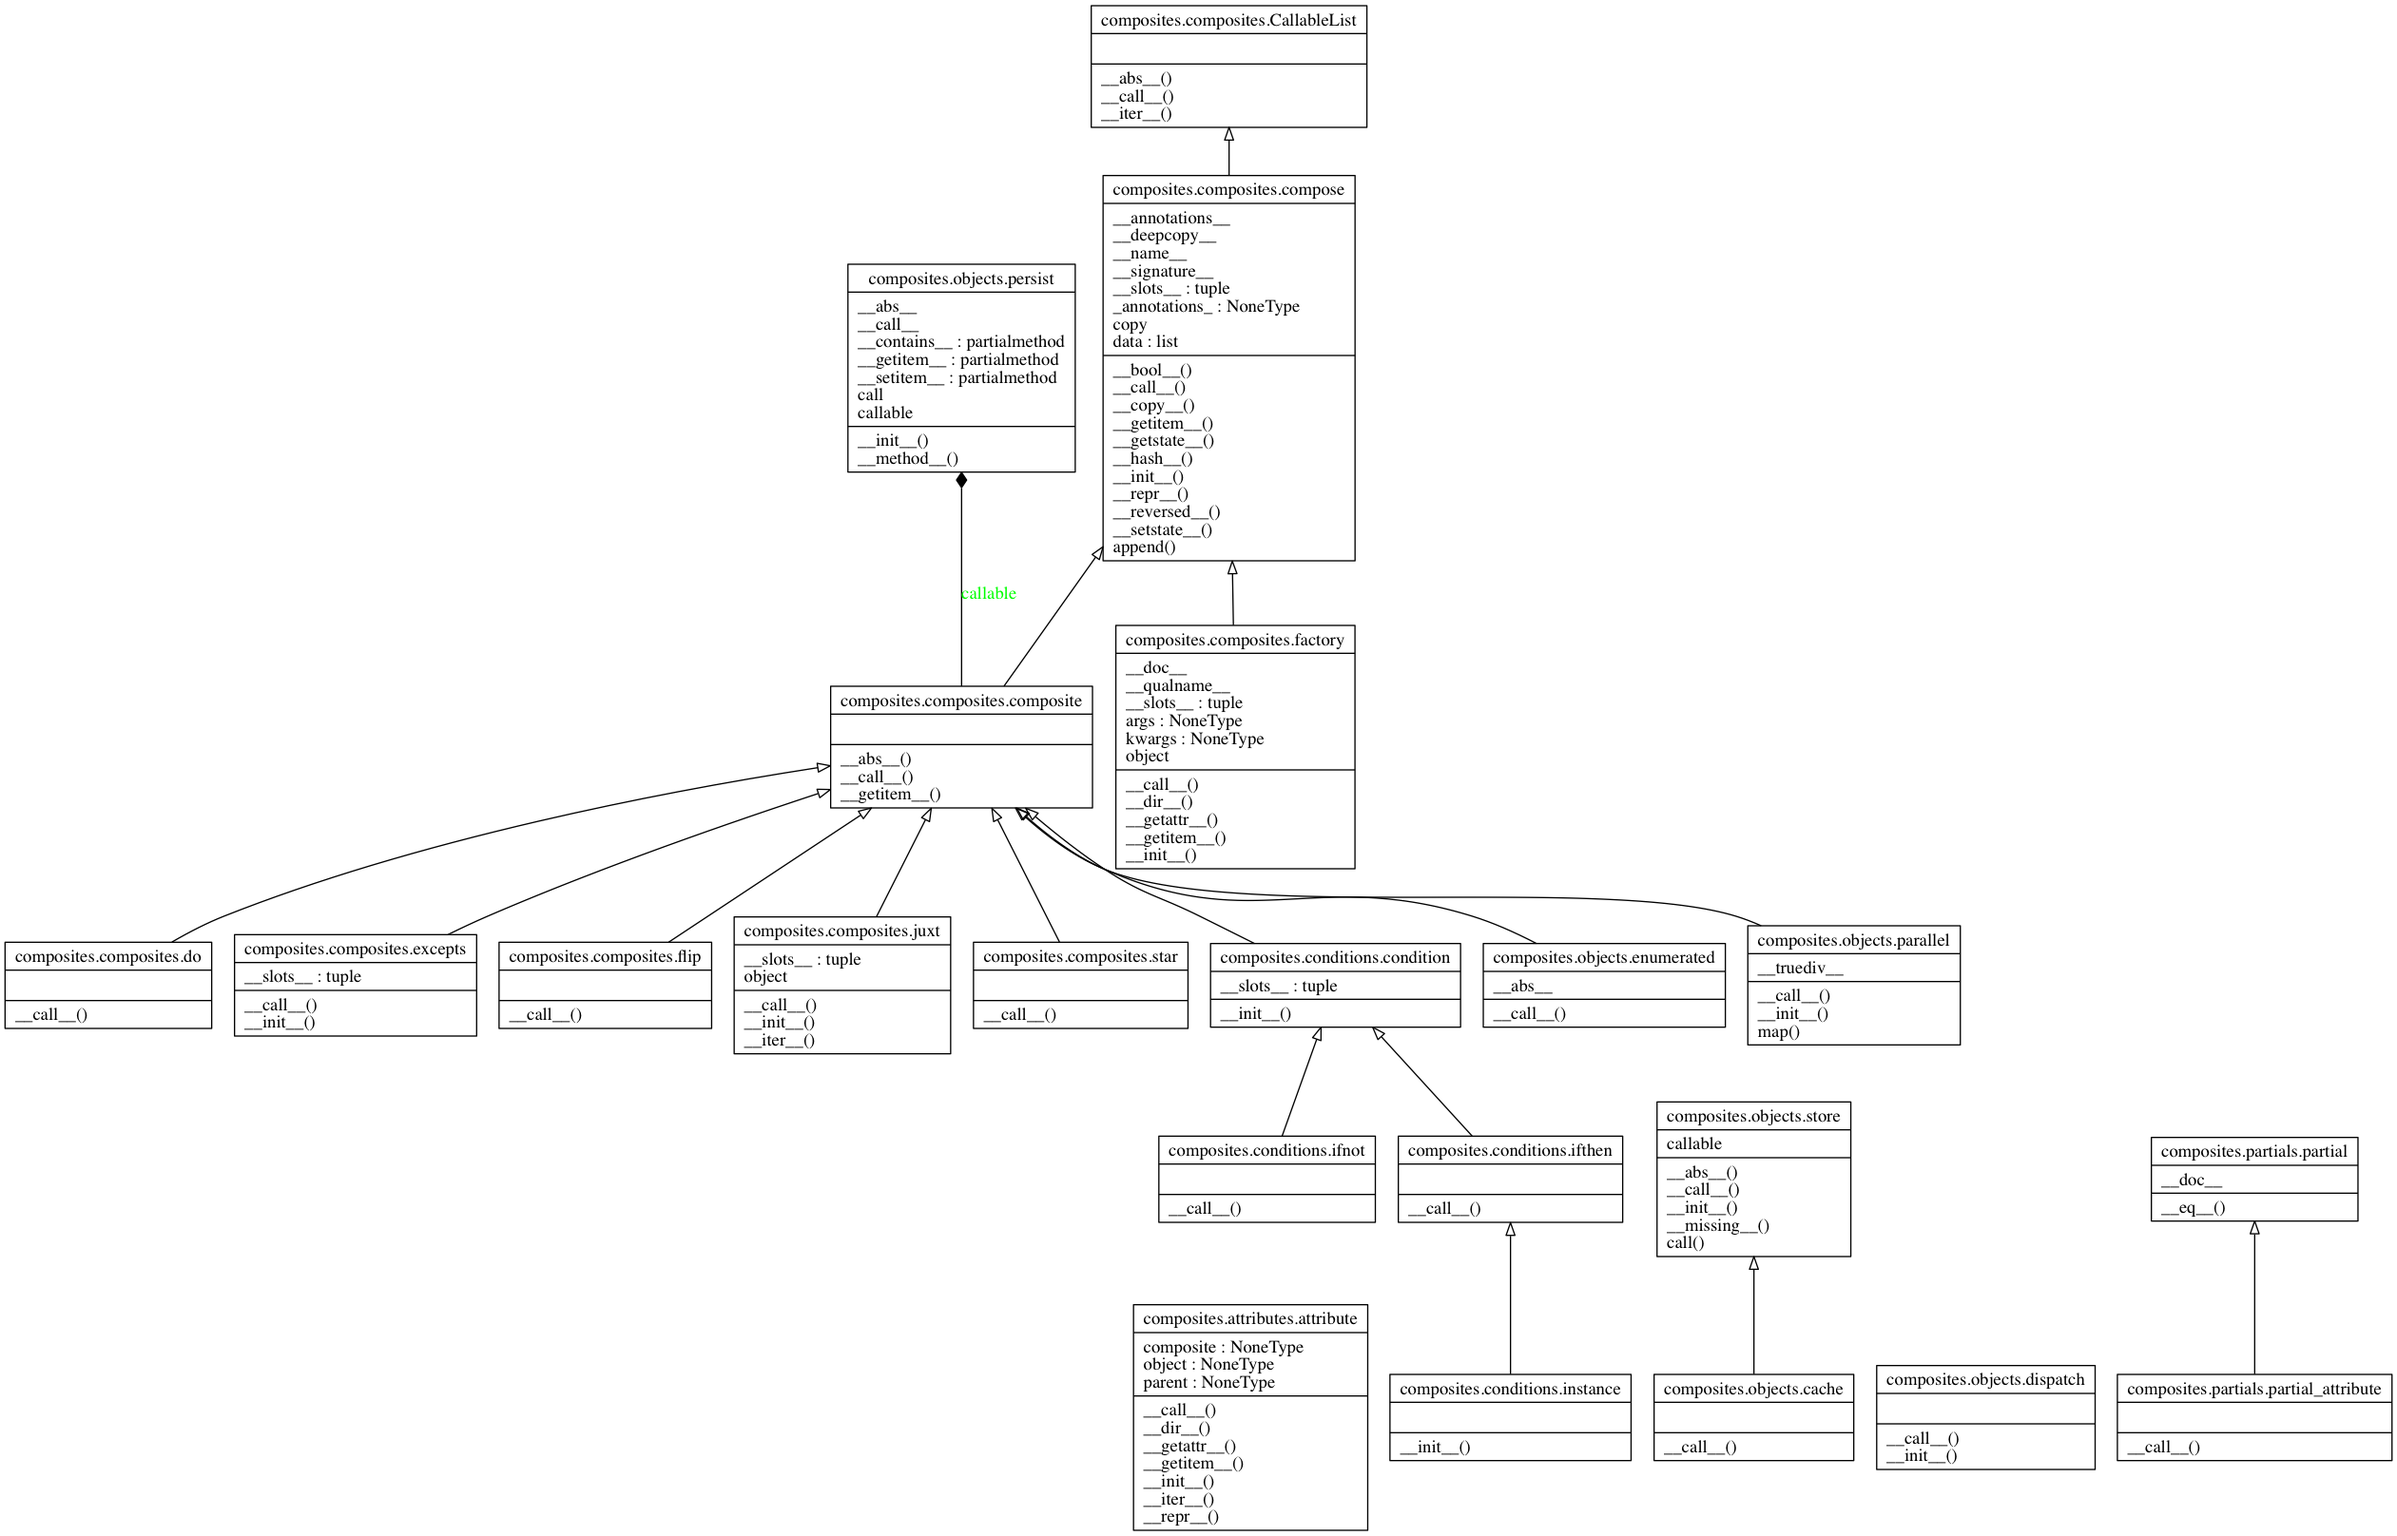
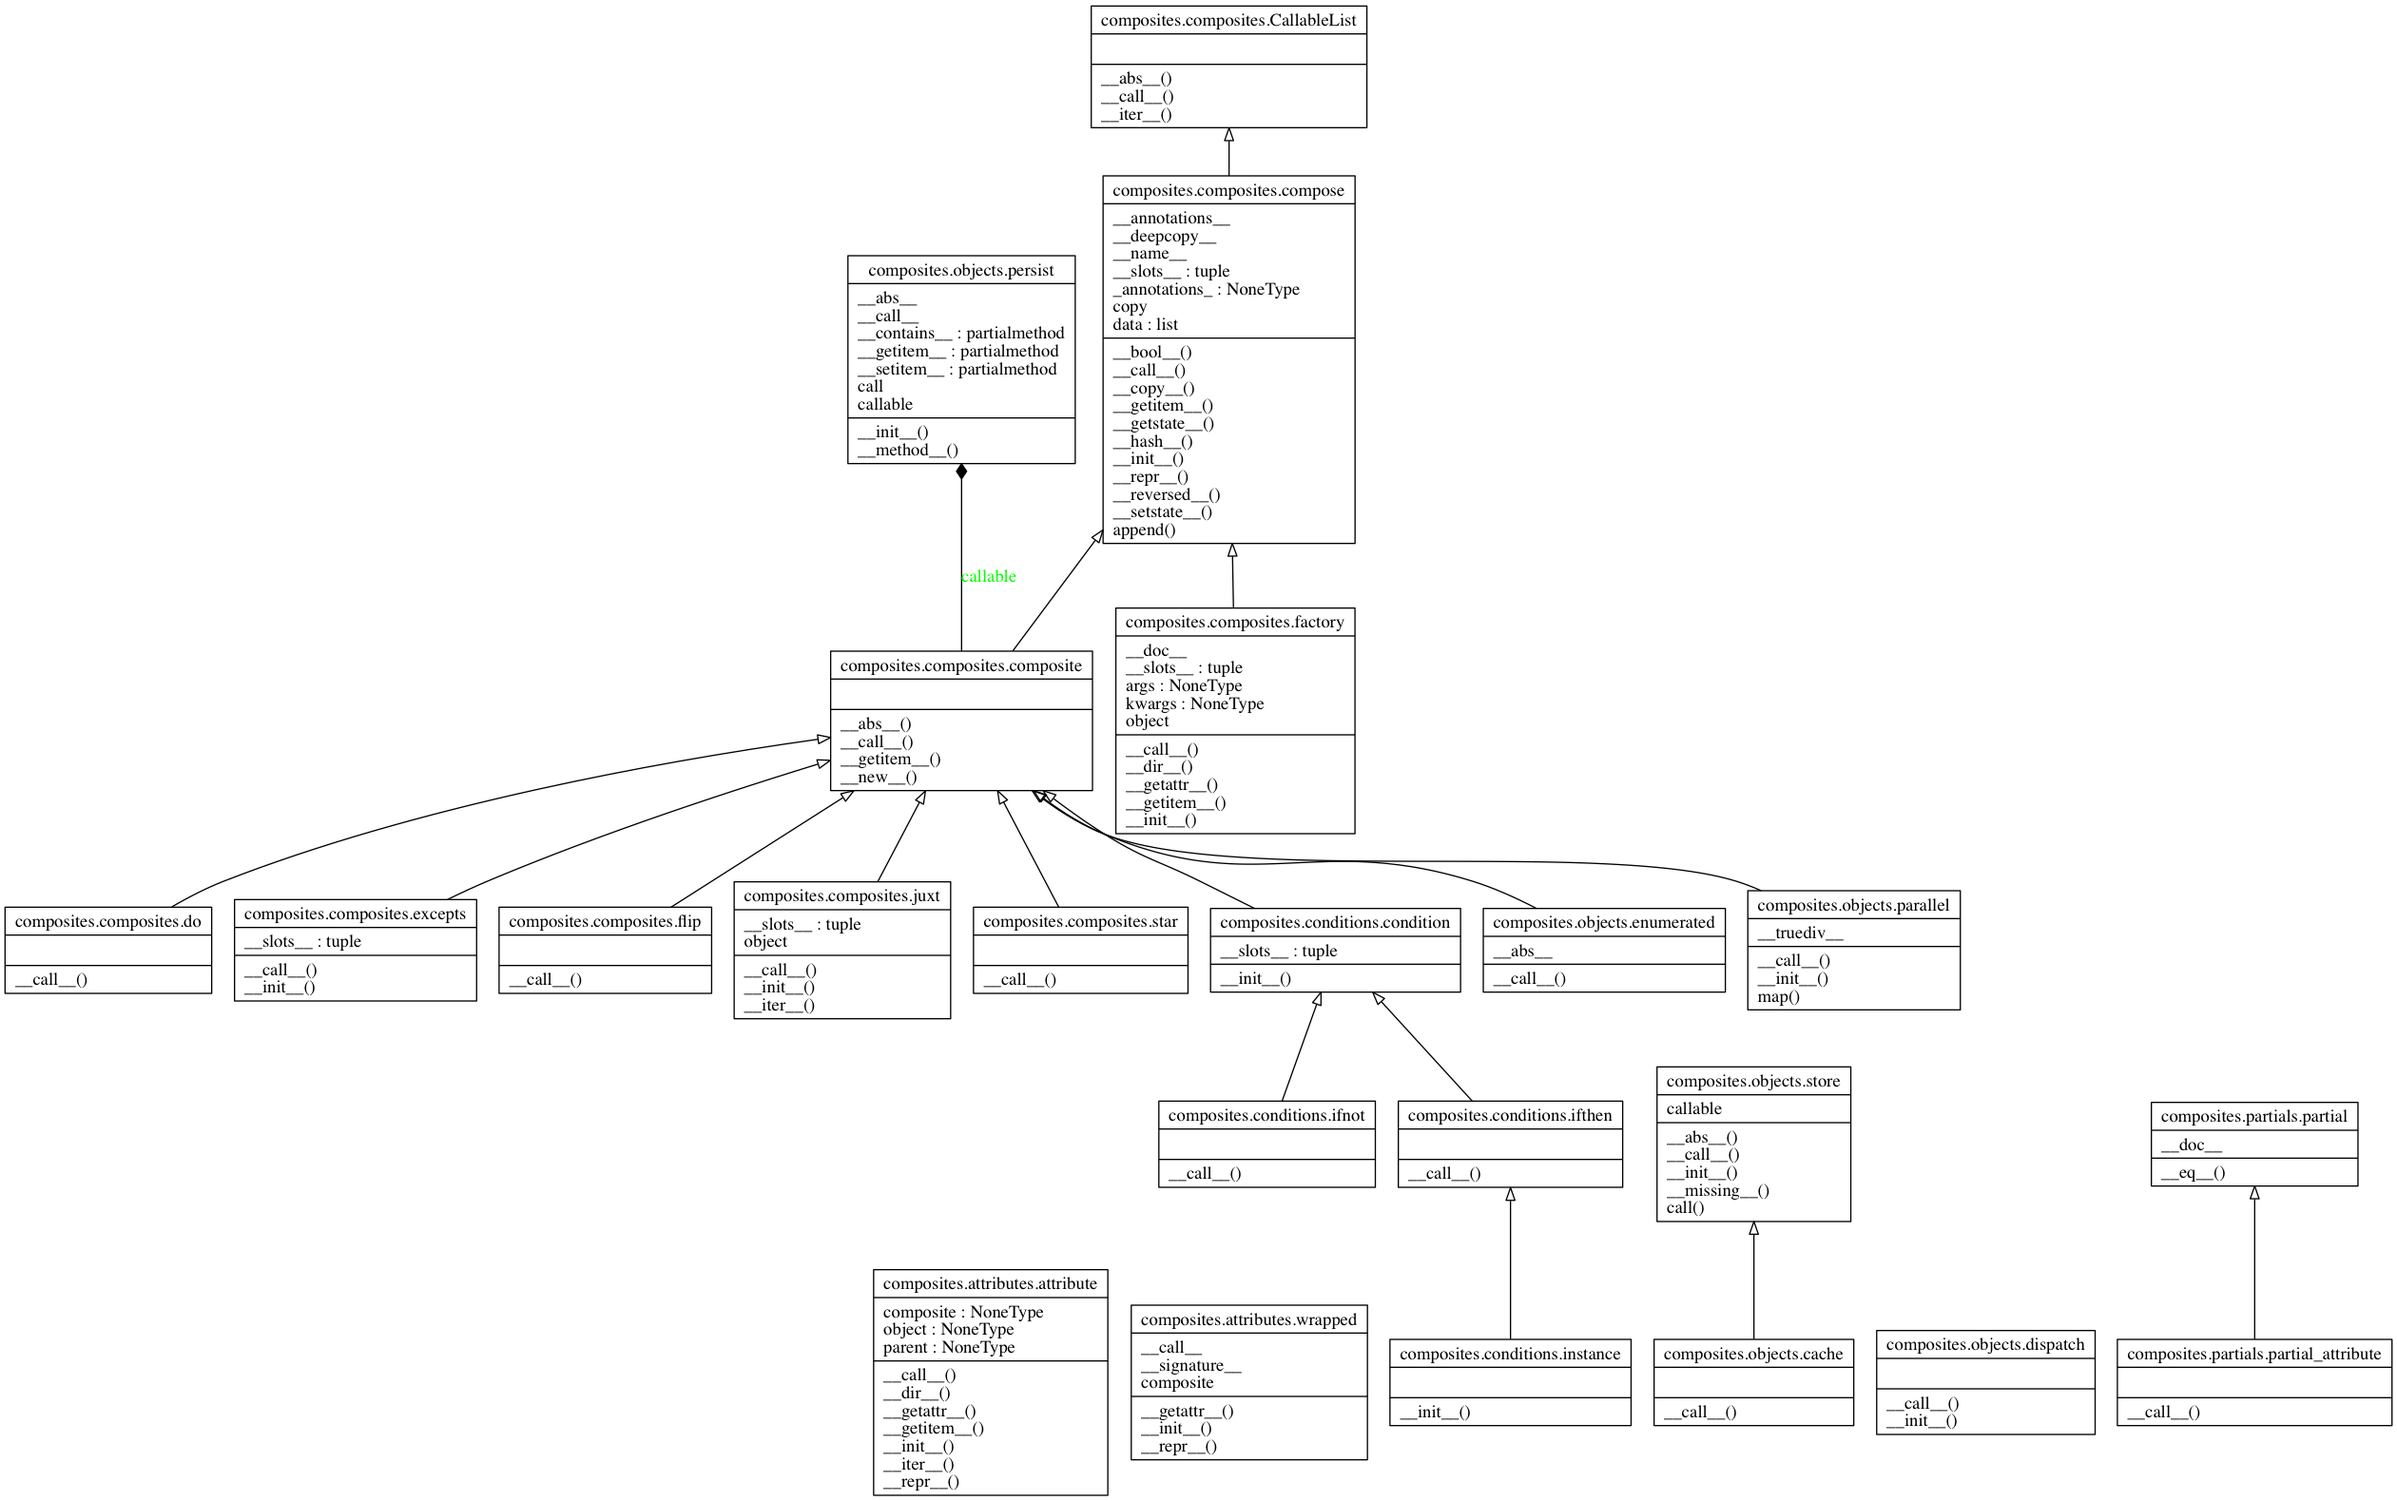
Add a new class to handle nested attribute access

diff --git a/composites/attributes.py b/composites/attributes.py
@@ -11,7 +11,7 @@ except BaseException:
     from partials import partial, partial_attribute
 
 
-from functools import partialmethod, wraps
+from functools import partialmethod, wraps, WRAPPER_ASSIGNMENTS
 from inspect import signature, getdoc
 from operator import attrgetter
 from toolz.curried import identity, concat, concatv, keymap
@@ -19,6 +19,31 @@ from toolz import map, groupby, filter, reduce
 import sys
 dunder = '__{}__'.format
 __all__ = 'shortcuts', '__all__'
+
+
+class wrapped(object):
+    def __init__(self, composite):
+        self.composite = composite
+        for key in WRAPPER_ASSIGNMENTS:
+            hasattr(
+                self.composite.object,
+                key) and setattr(
+                self,
+                key,
+                getattr(
+                    self.composite.object,
+                    key))
+        try:
+            self.__signature__ = signature(self.composite.object)
+        except BaseException:
+            pass
+
+    @property
+    def __call__(self): return wraps(self.composite.object)(self.composite)
+
+    def __getattr__(self, attr): return self.composite.__getattr__(attr)
+
+    def __repr__(self): return repr(self.composite.object)
 
 
 class attribute(object):
@@ -56,24 +81,10 @@ class attribute(object):
                     object).keys() for object in self))
 
     def __getattr__(self, item):
-        try:
-            return super().__getattr__(item)
-        except BaseException:
-            item = self[item]
-            return type(self)(self.composite, item, self.object).wraps()
+        new = type(self)(self.composite, self[item], self.object)
+        return wrapped(new) if callable(new.object) else new
 
     def __repr__(self): return repr(self.object or list(self))
-
-    def wraps(self):
-        if callable(self.object):
-            def wrapped(*args, **kwargs):
-                return self(*args, **kwargs)
-            try:
-                wrapped.__signature__ = signature(self.object)
-            except BaseException:
-                pass
-            return wraps(self.object)(wrapped)
-        return self
 
     def __call__(self, *args, **kwargs):
         object = self.object

diff --git a/composites/operations.py b/composites/operations.py
@@ -81,12 +81,15 @@ composite.__or__ = __or__
 composite.__xor__ = __xor__
 
 
+def boolean(composite, callable=bool): return composite[callable]
+
+
 composite.__truediv__ = composite.map
 composite.__floordiv__ = composite.filter
 composite.__matmul__ = composite.groupby
 composite.__mod__ = composite.reduce
-composite.__pos__ = partialmethod(composite.__getitem__, bool)
-composite.__neg__ = partialmethod(composite.__getitem__, not_)
+composite.__pos__ = partialmethod(boolean, bool)
+composite.__neg__ = partialmethod(boolean, not_)
 composite.__invert__ = composite.__reversed__
 
 
@@ -144,3 +147,6 @@ if __name__ == '__main__':
         'jupyter nbconvert --to python --TemplateExporter.exclude_input_prompt=True operations.ipynb')
 #     !flake8 operations.py
     get_ipython().system('python -m pydoc -w operations')
+
+
+composite().str.upper
